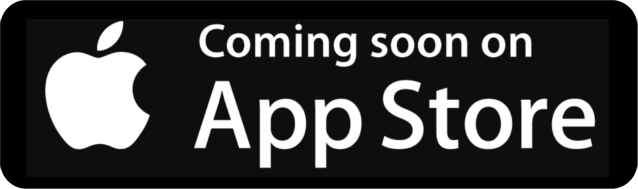
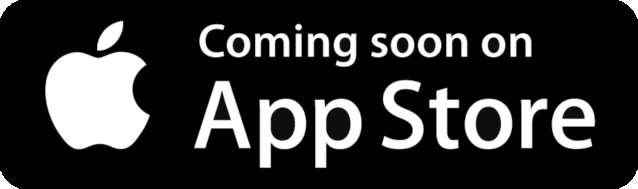
fixing alignment and colour issues

diff --git a/_posts/2000-01-01-home.md b/_posts/2000-01-01-home.md
@@ -9,8 +9,7 @@ style: center
 
 ### …cloud your mind
 
-<a href="https://play.google.com/apps/testing/com.sakthi.memair"><img style="max-width:40%; width:200px; margin-top: 8px;" src="img/google-play.png" alt="Google Play Store"></a>
-<img style="max-width:40%; width:200px; margin-top: 8px;" src="img/app-store.png" alt="Apple App Store">
+<a href="https://play.google.com/apps/testing/com.sakthi.memair"><img style="max-width:40%; width:200px; margin-top: 8px; margin-right: 4px; margin-left: 4px;" src="img/google-play.png" alt="Google Play Store"></a><a><img style="max-width:40%; width:200px; margin-top: 8px; margin-right: 4px; margin-left: 4px;" src="img/app-store.png" alt="Apple App Store"></a>
 
 <span id="banner">
   <a href="#contribute" class="bg-blue">
